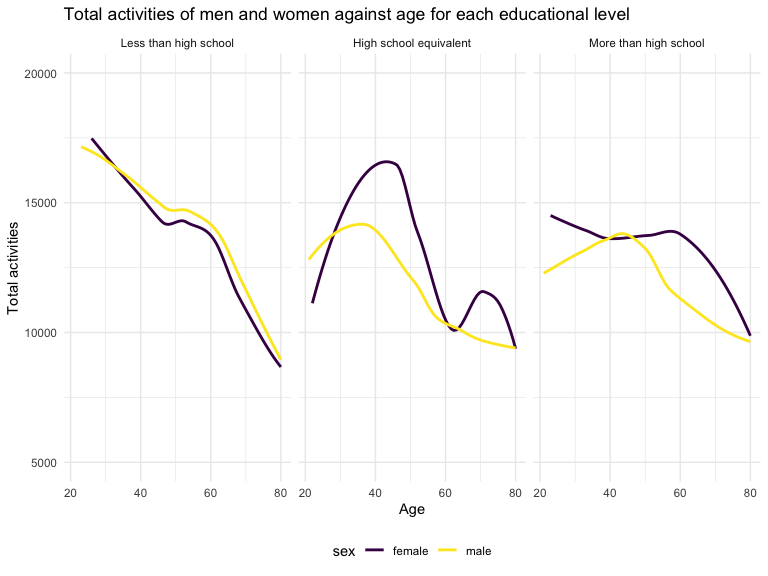
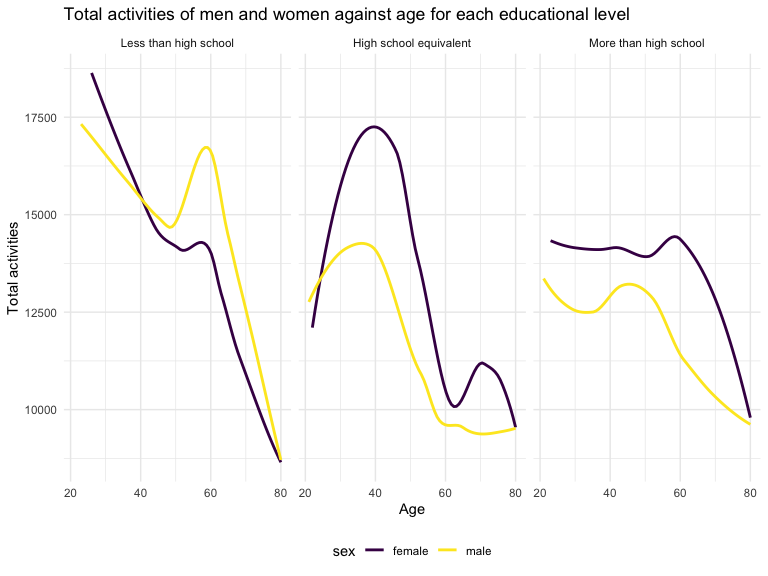
take out of the scale of y_continues

diff --git a/p8105_hw3_jw4348.md b/p8105_hw3_jw4348.md
@@ -347,10 +347,8 @@ ggplot(total_activity_df, aes(x = age, y = total_activity, color = sex)) +
   labs(
     title = "Total activities of men and women against age for each educational level", 
     x = "Age",
-    y = "Total activities") +
-  scale_y_continuous(
-    limits = c(5000,20000)
-  )
+    y = "Total activities"
+    )
 ```
 
     ## `geom_smooth()` using method = 'loess' and formula = 'y ~ x'
@@ -366,16 +364,16 @@ ggplot(total_activity_df, aes(x = age, y = total_activity, color = sex)) +
   - For people whose educational level is **high school equivalent**,
     they are **increasing sharply** their total activity when their ages
     increase in the range of **20 to 40**. However, **after around 40**,
-    their total activity generally **decrease** when they are
-    older.**Women** are generally have **greater** total activities in
-    most of the age compared to men. Also, there is a **small increase**
-    for **women** in total activity around age **60 to 70** against the
+    their total activity generally **decrease** when they are older.
+    **Women** are generally have **greater** total activities in most of
+    the age compared to men. Also, there is a **small increase** for
+    **women** in total activity around age **60 to 70** against the
     decreasing pattern after 40.
   - For **women** whose educational level is **more than high school**,
     their total activities are relatively **steady high** before 60.
     **After age 60**, their total activities **decrease** when they
     aged; For **men** in same educational level, the total activity
-    **increase before 40**, and **decrease after 40** when they aged.
+    **increase before 45**, and **decrease after 45** when they aged.
     **Women** generally have **more** total activities than men across
     the age.
 
